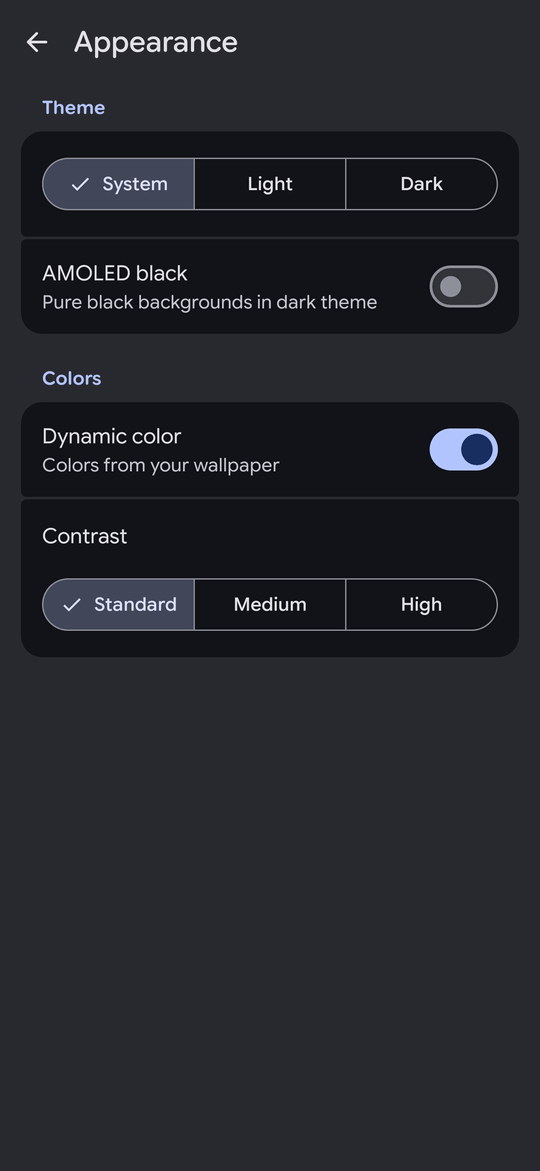
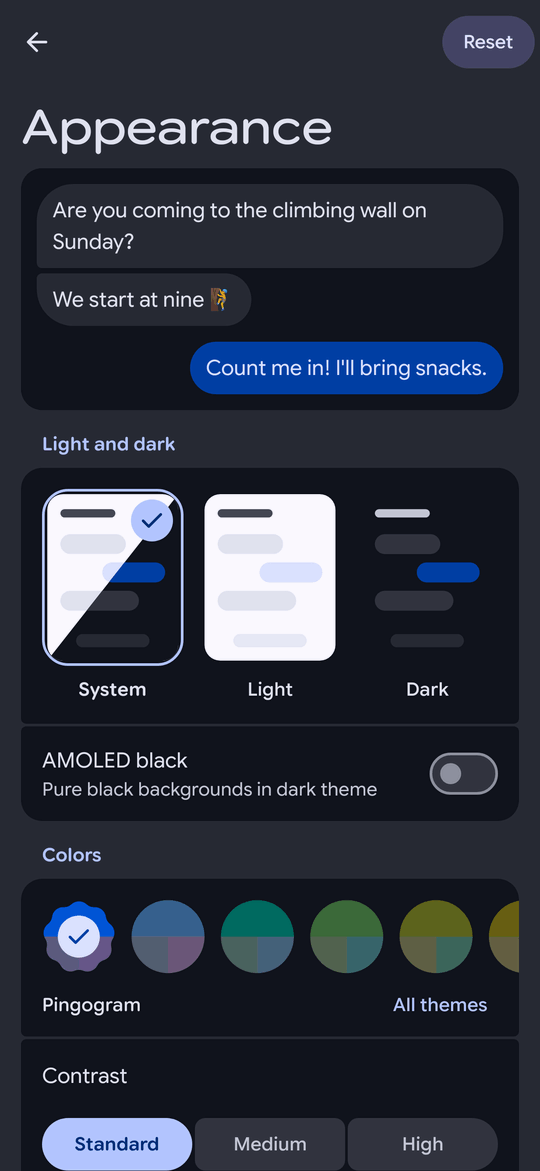
docs: README and store screenshots of the 2.0 look
The README shows the new look: the chat list, a group chat in each person's color, a channel, Contacts, search,
Settings, Appearance, Welcome and the tablet layout, regenerated from the goldens. A channel and Contacts replace
the composer and reactions shots, and the F-Droid listing and the store image scripts take the same set.

The note, features, permissions and "Not yet" now describe 2.0: calls with video, group calls and screen
sharing, rich channel posts, and what is still missing (Mini Apps, payments, posting stories).

diff --git a/README.md b/README.md
@@ -29,9 +29,9 @@ official client library, [TDLib](https://github.com/tdlib/td), and complies with
 [Telegram API Terms of Service](https://core.telegram.org/api/terms).
 
 > [!NOTE]
-> Pingogram is an **early beta** (0.4.0). Everyday messaging works, with notifications,
-> voice messages and stickers, contacts, profiles, groups and channels, forum topics and secret
-> chats; calls are not there yet. See [what works today](#what-works-today) and [what is missing](#not-yet).
+> Pingogram 2.0 brings a bolder Material 3 Expressive look to chats, contacts and Settings. Everyday messaging
+> works, with notifications, voice and video messages, stickers, groups and channels, forum topics, secret chats,
+> and voice, video and group calls. See [what works today](#what-works-today) and [what is missing](#not-yet).
 
 ## Screenshots
 
@@ -42,53 +42,53 @@ official client library, [TDLib](https://github.com/tdlib/td), and complies with
     <td align="center" width="25%">
       <picture>
         <source media="(prefers-color-scheme: dark)" srcset="docs/screenshots/chats-dark.png">
-        <img src="docs/screenshots/chats-light.png" alt="Chat list with folder tabs" width="200">
+        <img src="docs/screenshots/chats-light.png" alt="Chat list with its large header, folder chips and pinned chats" width="200">
       </picture>
-      <br><sub>Chat list with folders</sub>
+      <br><sub>Chat list with folders and pinned chats</sub>
     </td>
     <td align="center" width="25%">
       <picture>
         <source media="(prefers-color-scheme: dark)" srcset="docs/screenshots/chat-dark.png">
-        <img src="docs/screenshots/chat-light.png" alt="Group conversation with replies, a link preview and reactions" width="200">
+        <img src="docs/screenshots/chat-light.png" alt="Group conversation with each person's messages in their own color, role labels, replies and reactions" width="200">
       </picture>
-      <br><sub>Replies, link previews, reactions</sub>
+      <br><sub>Group chats in each person's color</sub>
     </td>
     <td align="center" width="25%">
       <picture>
-        <source media="(prefers-color-scheme: dark)" srcset="docs/screenshots/reactions-dark.png">
-        <img src="docs/screenshots/reactions-light.png" alt="Conversation with large emoji and reaction badges" width="200">
+        <source media="(prefers-color-scheme: dark)" srcset="docs/screenshots/channel-dark.png">
+        <img src="docs/screenshots/channel-light.png" alt="Channel with a post, an unread divider and a group of files" width="200">
       </picture>
-      <br><sub>Expressive bubbles and emoji</sub>
+      <br><sub>Channels and files</sub>
     </td>
     <td align="center" width="25%">
       <picture>
-        <source media="(prefers-color-scheme: dark)" srcset="docs/screenshots/composer-dark.png">
-        <img src="docs/screenshots/composer-light.png" alt="Composer with formatted text and the send button" width="200">
+        <source media="(prefers-color-scheme: dark)" srcset="docs/screenshots/contacts-dark.png">
+        <img src="docs/screenshots/contacts-light.png" alt="Contacts with who is online now and alphabetical sections" width="200">
       </picture>
-      <br><sub>Formatting in the composer</sub>
+      <br><sub>Contacts and who is online</sub>
     </td>
   </tr>
   <tr>
     <td align="center" width="25%">
       <picture>
         <source media="(prefers-color-scheme: dark)" srcset="docs/screenshots/search-dark.png">
-        <img src="docs/screenshots/search-light.png" alt="Search results for chats, contacts and messages" width="200">
+        <img src="docs/screenshots/search-light.png" alt="Search with the people you write to most, filter chips with counts and results" width="200">
       </picture>
-      <br><sub>Search chats and messages</sub>
+      <br><sub>Search chats, people and messages</sub>
     </td>
     <td align="center" width="25%">
       <picture>
         <source media="(prefers-color-scheme: dark)" srcset="docs/screenshots/settings-dark.png">
-        <img src="docs/screenshots/settings-light.png" alt="Settings with the account card" width="200">
+        <img src="docs/screenshots/settings-light.png" alt="Settings with the account card and grouped pages" width="200">
       </picture>
       <br><sub>Settings</sub>
     </td>
     <td align="center" width="25%">
       <picture>
         <source media="(prefers-color-scheme: dark)" srcset="docs/screenshots/appearance-dark.png">
-        <img src="docs/screenshots/appearance-light.png" alt="Appearance settings: theme, AMOLED black, dynamic color, contrast" width="200">
+        <img src="docs/screenshots/appearance-light.png" alt="Appearance settings: a live preview, light and dark modes, AMOLED black, color themes, contrast" width="200">
       </picture>
-      <br><sub>Theme, dynamic color, contrast</sub>
+      <br><sub>Live preview, themes, contrast</sub>
     </td>
     <td align="center" width="25%">
       <picture>
@@ -117,7 +117,10 @@ light or dark theme.</sub>
 
 - **Sign-in:** phone number with country picker, every login code type, two-step verification
   with password recovery, new-account registration, QR code login and email verification.
-- **Chat list:** folders as tabs, unread, mention and reaction badges, typing and online status,
+- **The look:** Material 3 Expressive throughout: large headers that shrink as you scroll, folder chips that slide
+  with your finger, pinned chats grouped at the top, avatars shaped by the kind of chat, a floating navigation bar
+  with "New chat" beside it.
+- **Chat list:** folders, unread, mention and reaction badges, typing and online status,
   drafts, swipe to archive or mark as read, multi-select with a floating toolbar (pin, mute,
   archive, mark as read, delete) and the archive.
 - **Conversations:** paged history that opens at the first unread message, Material 3 Expressive
@@ -142,14 +145,18 @@ light or dark theme.</sub>
   description, leaving and deleting, as far as your rights allow; creating groups and channels.
 - **Bots:** command menus and suggestions, the buttons bots put under their messages, bot keyboards, inline bots
   ("@gif cats") and a Start button for bots you have not used yet. Mini Apps, games and payments are not there yet.
-- **Voice calls:** end-to-end encrypted, with the four emojis to compare; they ring like phone calls, on the lock
-  screen too, and work with your headset, car and watch.
+- **Calls:** end-to-end encrypted voice and video calls, with the four emojis to compare; they ring like phone
+  calls, on the lock screen too, and work with your headset, car and watch. Picture-in-picture, screen sharing,
+  group voice chats with video, live streams, and group calls by link or started from Recent calls.
+- **Channels and groups in color:** each person's messages in their own hue (vivid or tinted), role labels, a
+  "Jump to mention" button, and rich channel posts with headings, sections, photos, lists and tables.
 - **Inside chats:** secret chats (end-to-end encrypted, on this phone only, with a self-destruct
   timer and the encryption key to compare), forum topics, comment threads under channel posts and
   a pinned messages bar.
 - **Sharing into Pingogram:** text, links, photos, videos and files shared from other apps go to the
   chats you pick, or straight to one from Android's share sheet.
-- **Search** across your chats, contacts, public chats and channels, and messages.
+- **Search** across your chats, contacts, public chats and channels, and messages, with the people you write to
+  most and counts on the Messages, Media and Links chips. Settings has a search of its own.
 - **Telegram links:** `tg://`, `t.me`, `telegram.me` and `telegram.dog` links from other apps
   and in messages open in Pingogram (usernames, phone numbers, message links, invite links,
   Saved Messages, settings pages and more); on Android 12 and later, turn on "Open supported
@@ -173,19 +180,19 @@ light or dark theme.</sub>
 
 Pingogram asks for each permission only when you use what needs it, and says why first:
 notifications (Android 13+), the microphone for voice messages and calls, the location you send, your
-contacts only if you turn on contacts sync, and the camera only for the QR code scanner. The
-scanner reads codes on your phone: nothing the camera sees is kept or sent, only the Telegram
-link a code holds is opened through TDLib. There are no analytics, ads or trackers.
+contacts only if you turn on contacts sync, and the camera for the QR code scanner, video calls and video
+messages. The scanner reads codes on your phone: nothing the camera sees is kept or sent, only the Telegram
+link a code holds is opened through TDLib. Installing apps is used only when you tap an APK someone sent you,
+and Android asks first. There are no analytics, ads or trackers.
 
 ### Not yet
 
-- Recording video messages; creating and editing forum topics
-- Video calls (a video call reaches you as a voice call) and group calls, planned next
-  ([ADR 0019](docs/adr/0019-video-and-group-calls-scope.md))
+- Mini Apps, games and payments
+- Posting stories (viewing them works), and sending custom emoji
+- Image wallpapers for chats
 
-The [roadmap](docs/ROADMAP.md) lists the milestones towards 1.0, which also aims for faster
-start-up and smoother scrolling than the official app on the same device
-([performance budgets](docs/PERFORMANCE.md)).
+The [roadmap](docs/ROADMAP.md) lists what is left, and Pingogram also aims for faster start-up and smoother
+scrolling than the official app on the same device ([performance budgets](docs/PERFORMANCE.md)).
 
 ## Translations
 

diff --git a/docs/STORES.md b/docs/STORES.md
@@ -174,7 +174,7 @@ Run the screenshot and fastlane scripts first after re-recording goldens.
 | Image | Galaxy Store | AppGallery | File |
 |---|---|---|---|
 | Icon | PNG, 512 × 512, at most 1,024 KB | PNG, WebP or JPG, 216 × 216 or 512 × 512, at most 2 MB, no rounded corners or padding | `galaxy/icon.png`, `appgallery/icon.png`: 512 × 512, full bleed on white, no alpha |
-| Screenshots | 4–8, JPG or PNG, 320–3,840 px a side, at most 2:1 | 3–8, 450 × 800 (9:16) or 800 × 450, 320–3,840 px a side | `*/screenshots/1.png`…`8.png`: 666 × 1184 (9:16), the light phone set in `tools/fastlane/images.sh`'s order (welcome, chats, chat, reactions, composer, search, settings, appearance) |
+| Screenshots | 4–8, JPG or PNG, 320–3,840 px a side, at most 2:1 | 3–8, 450 × 800 (9:16) or 800 × 450, 320–3,840 px a side | `*/screenshots/1.png`…`8.png`: 666 × 1184 (9:16), the light phone set in `tools/fastlane/images.sh`'s order (welcome, chats, chat, channel, contacts, search, settings, appearance) |
 | Banner | cover image 1200 × 675, at most 1,024 KB; asked only for some categories and countries (Games) | introduction and promotional images: **Unconfirmed** for Android apps; the Connect API lists an "introduction image" upload without its size | `galaxy/cover.png`: 1200 × 675, the logo on the brand's background, as the feature graphic |
 | Video | a YouTube link only (optional) | optional: 1–3 MP4 or MOV, 1280 × 720 or 720 × 1280, 15 s to 2 min | none yet |
 

diff --git a/docs/PLAY_STORE.md b/docs/PLAY_STORE.md
@@ -155,7 +155,7 @@ description (`REQUIREMENTS.md` §2). Play's metadata policy forbids implying an 
 - **Screenshots**: Play takes 2–8 phone screenshots, PNG or JPEG, 320–3840 px on each side, the long side at most
   twice the short side. `docs/screenshots/` are 540 × 1171 (2.17:1) and must be padded to 9:16 first: run
   `python3 tools/play/screenshots.py` (writes `build/play/screenshots/`: each centred on its own background at 9:16,
-  659 × 1171, nothing scaled). Phone set, in this order: `chats-light`, `chat-light`, `composer-light`, `reactions-dark`,
+  659 × 1171, nothing scaled). Phone set, in this order: `chats-light`, `chat-light`, `channel-light`, `contacts-dark`,
   `search-light`, `appearance-light`, `settings-dark`, `welcome-light`; a call screen once a device capture exists
   (`feature/calls` goldens are 411 dp phones: capture from a device for the listing). Tablet (7" and 10"):
   `tablet-light`, `tablet-dark` (1080 × 1146, already within 2:1).
